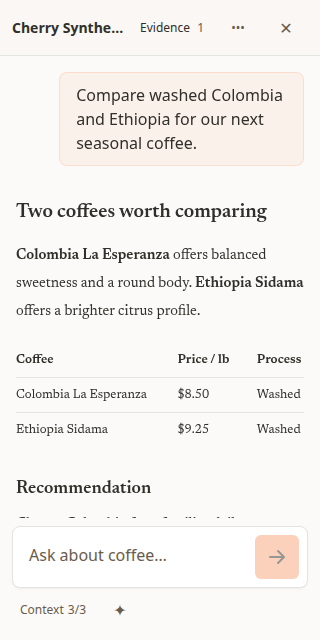
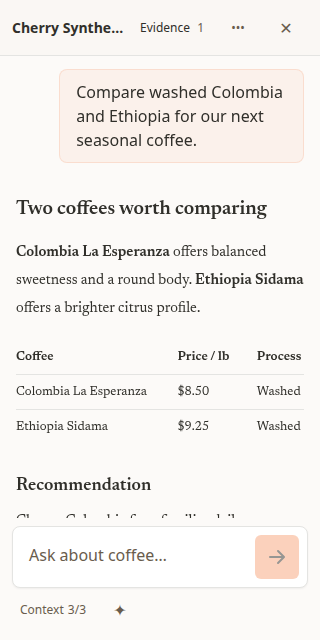
docs(cherry): document main delivery repair and refresh browser proof

diff --git a/notes/pr-audits/2026-09-11-cherry-compact-chat.md b/notes/pr-audits/2026-09-11-cherry-compact-chat.md
@@ -2,7 +2,7 @@
 
 ## Outcome and sequence
 
-Implements the first recommended pass from the [66-point audit, PR #611](https://github.com/reedwhetstone/coffee-app/pull/611), stacked on the integrated workspace in [PR #610](https://github.com/reedwhetstone/coffee-app/pull/610). The [overhaul plan](../implementation-plans/2026-09-11-cherry-agent-overhaul.md) retains the larger connected-conversation/evidence outcome.
+Implements the first recommended pass from the [66-point audit, PR #611](https://github.com/reedwhetstone/coffee-app/pull/611), originally stacked on the integrated workspace in [PR #610](https://github.com/reedwhetstone/coffee-app/pull/610). The [overhaul plan](../implementation-plans/2026-09-11-cherry-agent-overhaul.md) retains the larger connected-conversation/evidence outcome.
 
 - Desktop `/chat` has no dedicated identity strip or decorative outer gutters. The existing app rail and bounded transcript/composer widths remain.
 - Page evidence and conversation actions sit beside the composer. Context inclusion and suggestions are available through compact, bounded upward disclosures; context opt-outs retain their actual request semantics.
@@ -48,3 +48,14 @@ The browser harness mounts the actual root layout, `/chat` page and child compon
 - [Laptop conversation](assets/cherry-compact/laptop-settled.png), [desktop conversation](assets/cherry-compact/desktop-settled.png), [mobile conversation](assets/cherry-compact/mobile-settled.png)
 - [Laptop context](assets/cherry-compact/laptop-context.png), [mobile context](assets/cherry-compact/mobile-context.png), [mobile evidence](assets/cherry-compact/mobile-evidence.png)
 - [Working](assets/cherry-compact/laptop-working.png), [mobile error](assets/cherry-compact/mobile-error.png), [mobile drawer](assets/cherry-compact/mobile-drawer.png), [narrow drawer](assets/cherry-compact/narrow-drawer.png)
+
+## September 12 main-branch delivery correction
+
+[PR #613](https://github.com/reedwhetstone/coffee-app/pull/613) merged into the old `openclaw/cherry-integrated-workspace` branch at `67f0a39b`, not into `main`. #610 had already merged before that branch received the compact-layout commit. Production commit `b44cb16e` therefore contained #610, #614 and #615, but not #613. This was a PR-target/sequence error, not stale browser cache or a release flag.
+
+The correction cherry-picks the original compact-layout commit `0a23edba` onto current `origin/main` at `b44cb16e`. The commit applies without conflicts. The main-relative ChatWorkspace diff contains only control placement and related UI changes; automatic compression, terminal-error handling, unload replay, and the analytics rejection fix are retained.
+
+- `VALIDATION_PASS`: 150 focused tests across 21 files cover the compact chat and mobile controls together with canvas/store/route persistence and recovery.
+- `VALIDATION_PASS`: all 27 browser journey groups on the combined implementation, including desktop, mobile, 320px narrow and 200%-equivalent reflow. Screenshots and geometry are refreshed, not inherited from the retired feature preview.
+- `VALIDATION_PASS`: strict type checks (zero errors/warnings), repository lint, and `git diff --check`.
+- The correction PR targets `main` directly. Normal merge and deployment deliver the UI without a separate activation step. Production UI remains unchanged until that merge/deploy.

diff --git a/notes/implementation-plans/2026-09-11-cherry-agent-overhaul.md b/notes/implementation-plans/2026-09-11-cherry-agent-overhaul.md
@@ -1,7 +1,7 @@
 # Cherry AI: connected conversation and evidence workspace
 
 **Date:** 2026-09-11
-**Status:** Accepted scope via [PR #605](https://github.com/reedwhetstone/coffee-app/pull/605); slices 1–2 and coffee-reference slice 3a merged; integrated-shell slice 4a and density refinement 4b implemented for review
+**Status:** Accepted scope via [PR #605](https://github.com/reedwhetstone/coffee-app/pull/605); slices 1–2 and coffee-reference slice 3a merged; integrated-shell slice 4a merged; density refinement 4b recovered onto current main for review
 **Owner:** coffee-app for human experience; Parchment for shared runtime and durable contracts
 
 ## Goal and accepted direction
@@ -45,6 +45,8 @@ Incoming agent presentations preserve the active scene and action proposals. Exp
 [Slice 4a validation and screenshots](../pr-audits/2026-09-11-cherry-workspace.md) record deterministic desktop/mobile and drawer evidence. This is a coherent shell delivery, **not completion of every slice 4 acceptance journey**. Local proposal edits and transcript/evidence position survive close/reopen and viewport changes within the mounted workspace. Saved selected evidence, pins, transcript and canonical execution outcomes use existing persistence. Unsubmitted proposal edits, composer drafts, and pixel scroll positions are not newly persisted across full reload/navigation. Complete those continuity contracts alongside the remaining market/roastery journeys before declaring the entire overhaul complete; do not silently extend the shared persistence schema in this UI slice. Authenticated deployed/model behavior remains a separate unverified gate.
 
 ### Density refinement (slice 4b)
+
+**September 12 delivery correction:** #613 merged into `openclaw/cherry-integrated-workspace` after #610 had already merged. That made the compact UI available on the old feature preview, but did not deliver it to `main` or production. The main-targeted correction reapplies the original density commit onto #615’s merged foundation, preserving automatic canvas compression, unload recovery, and the analytics rejection fix. No activation flag or additional dependency merge is required.
 
 The [66-point UI benchmark audit (PR #611)](https://github.com/reedwhetstone/coffee-app/pull/611) identified excess vertical chrome in slice 4a. The accepted first implementation pass removes the dedicated page identity bar and chat-only outer gutters, moves page evidence/actions beside the input, and collapses context/suggestions into bounded disclosures. The mobile app shell is the sole top navigation row; the drawer retains its own title and close control. This refines, rather than replaces, the single retained evidence surface and canonical state owners established by [PR #610](https://github.com/reedwhetstone/coffee-app/pull/610).
 
